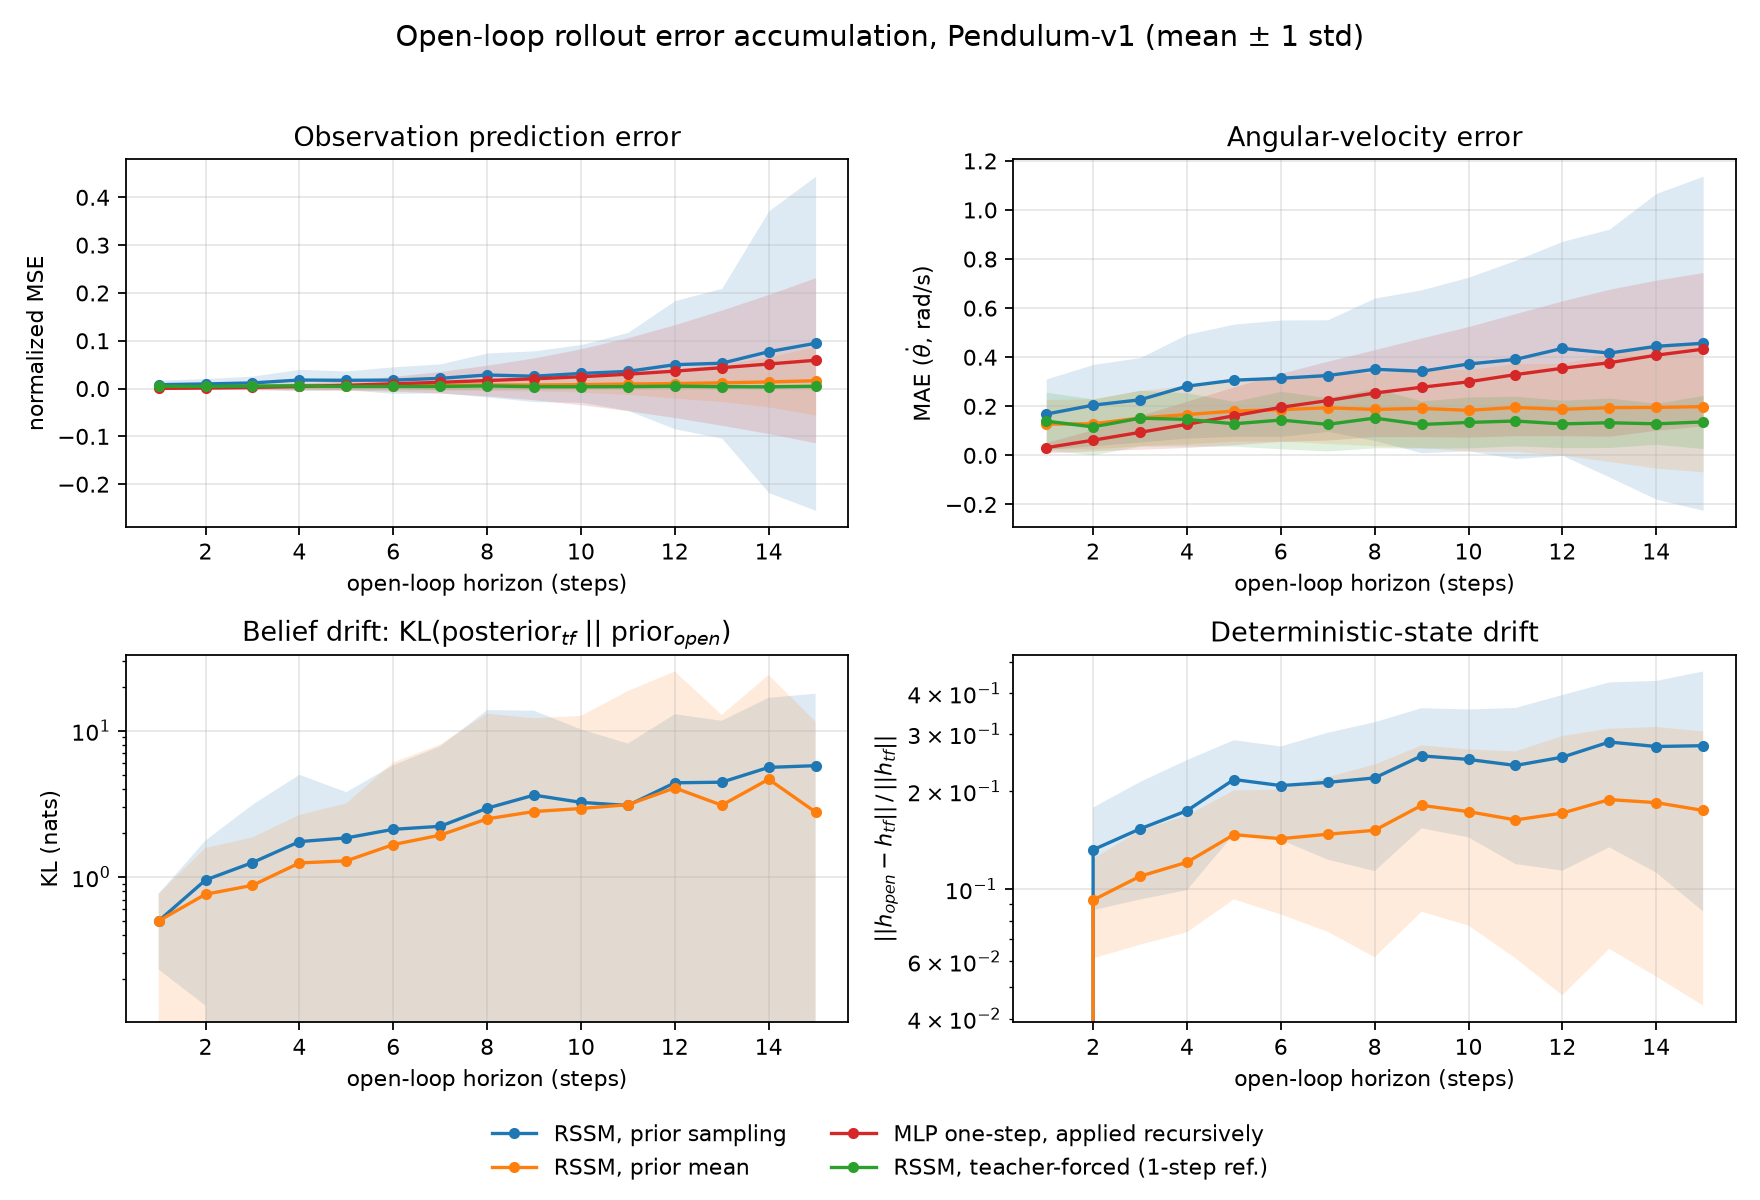
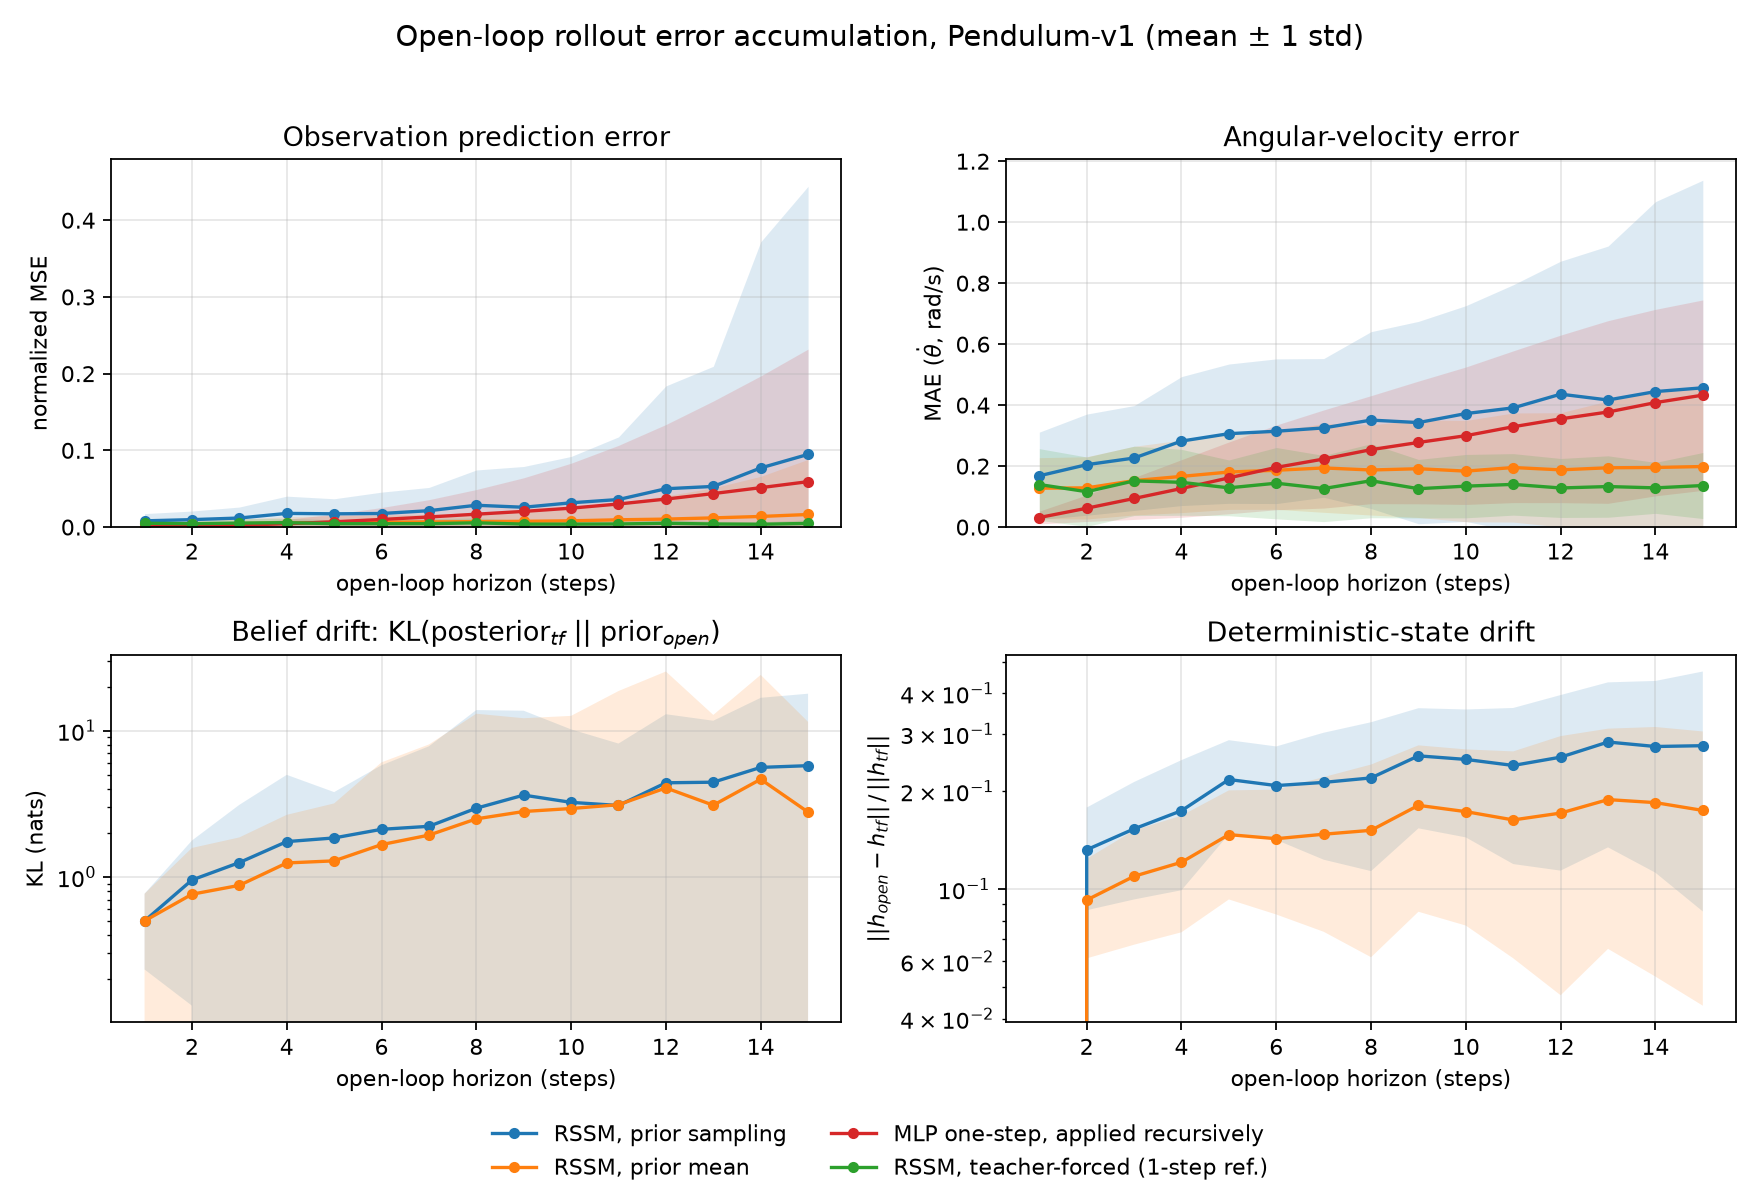
Report: embed result figures; plot: floor linear panels at zero

diff --git a/src/plot.py b/src/plot.py
@@ -63,7 +63,7 @@ def aggregate(rows, metric: str) -> dict[str, tuple[np.ndarray, np.ndarray, np.n
     return series
 
 
-def curve_panel(ax, series, title, ylabel, logy=False):
+def curve_panel(ax, series, title, ylabel, logy=False, zero_floor=False):
     for model in PLOT_ORDER:
         if model not in series:
             continue
@@ -77,6 +77,8 @@ def curve_panel(ax, series, title, ylabel, logy=False):
     ax.grid(alpha=0.3)
     if logy:
         ax.set_yscale("log")
+    if zero_floor:
+        ax.set_ylim(bottom=0.0)
 
 
 def write_summary(path: str, rows, metrics) -> None:
@@ -107,9 +109,9 @@ def main() -> None:
 
     fig, axes = plt.subplots(2, 2, figsize=(11, 7.5))
     curve_panel(axes[0, 0], aggregate(rows, "obs_mse_norm"),
-                "Observation prediction error", "normalized MSE")
+                "Observation prediction error", "normalized MSE", zero_floor=True)
     curve_panel(axes[0, 1], aggregate(rows, "mae_thdot"),
-                "Angular-velocity error", r"MAE ($\dot\theta$, rad/s)")
+                "Angular-velocity error", r"MAE ($\dot\theta$, rad/s)", zero_floor=True)
     curve_panel(axes[1, 0], aggregate(rows, "latent_kl"),
                 "Belief drift: KL(posterior$_{tf}$ || prior$_{open}$)", "KL (nats)", logy=True)
     curve_panel(axes[1, 1], aggregate(rows, "h_rel_drift"),

diff --git a/report/report.md b/report/report.md
@@ -131,6 +131,17 @@ study is about, is the **slope**: how fast each model's error grows with horizon
 
 ## 4. Results
 
+![Open-loop rollout error accumulation](../results/rollout_drift.png)
+
+*Top left: observation error vs horizon. Top right: angular-velocity error. Bottom
+left: belief drift, `KL(posterior_tf ‖ prior_open)`, on a log axis. Bottom right:
+deterministic-path drift. Bands are ±1 standard deviation across episodes and seeds.*
+
+![Example episode](../results/example_trajectory.png)
+
+*One held-out episode. The dotted vertical line is the last step at which the model
+saw a real observation; everything to its right is generated open-loop.*
+
 ### 4.1 Observation error grows multiplicatively, and the floor is flat
 
 Mean normalized observation MSE, averaged over 32 episodes × 3 seeds:
